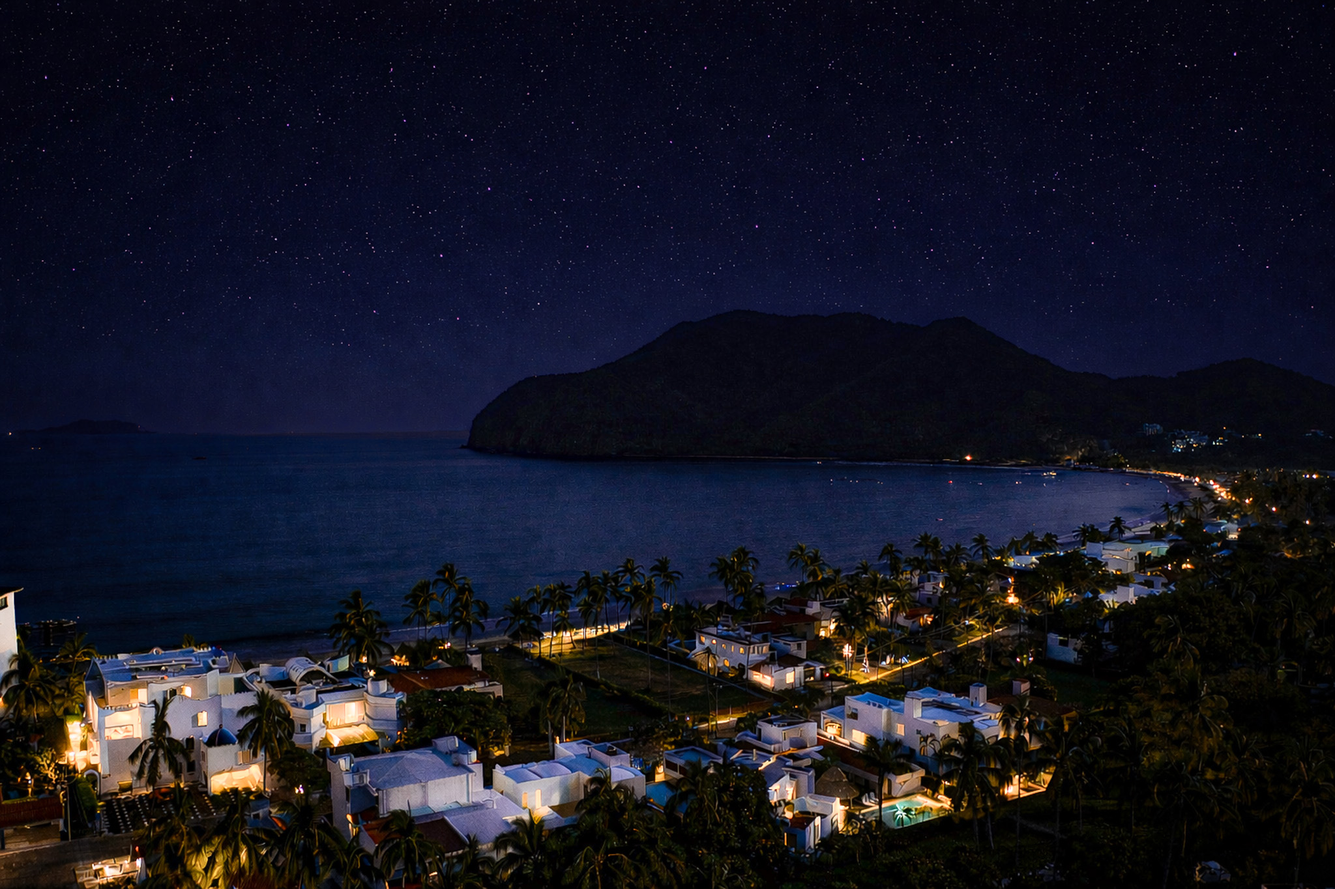
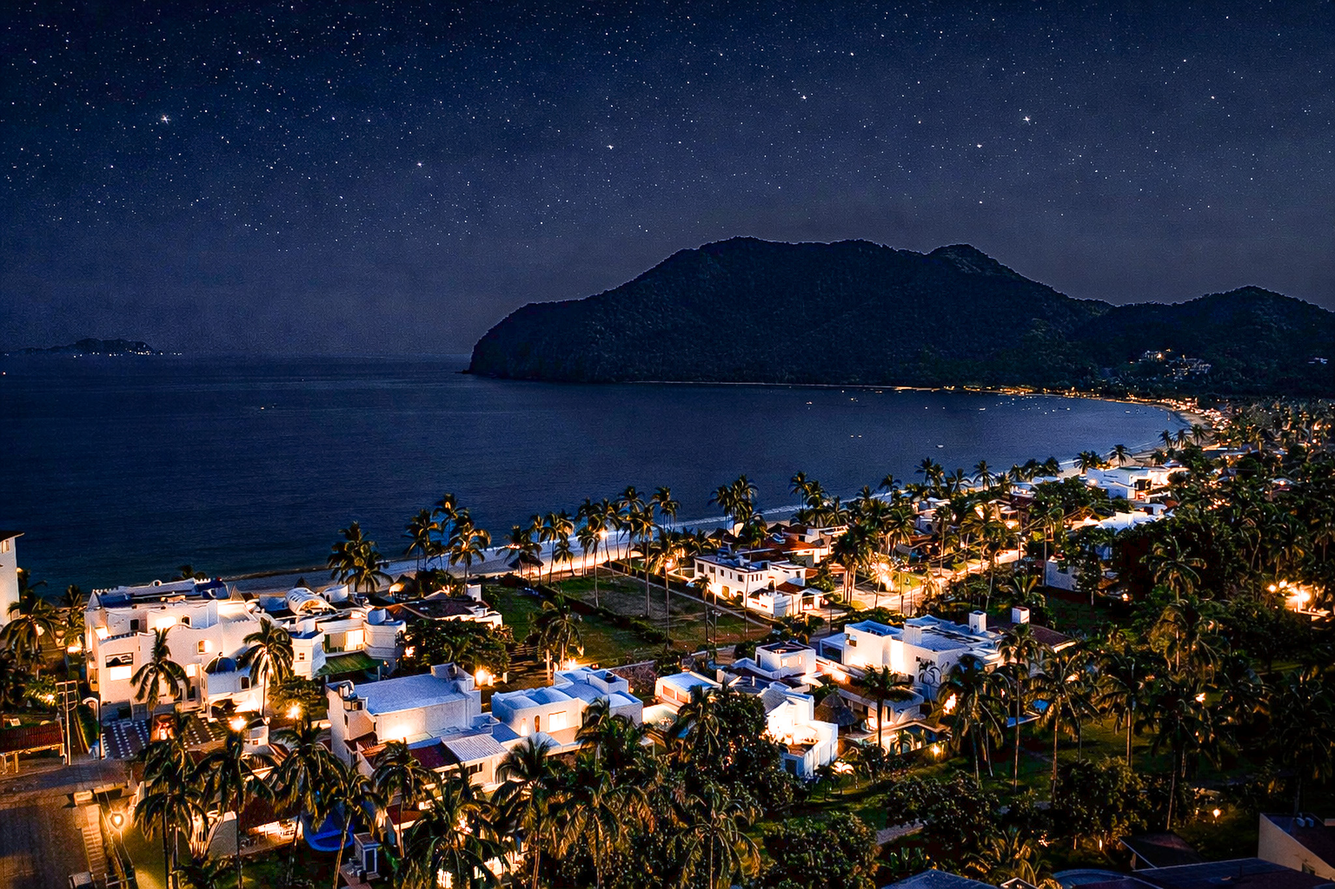
ajusted ultimos de diseño

diff --git a/assets/css/alrededores.css b/assets/css/alrededores.css
@@ -573,6 +573,9 @@ h4,
     background-attachment: scroll !important;
     background-position: center center !important;
   }
+  body.dark-mode .around-hero-container {
+  background-image: url('../img/fondos/alrededores_obscuro.jpg') !important;
+}
 
   .alrededores-page .around-header {
     width: calc(100% - 36px) !important;
@@ -670,6 +673,9 @@ h4,
     background-attachment: scroll !important;
     background-position: center center !important;
   }
+  body.dark-mode .around-hero-container {
+  background-image: url('../img/fondos/alrededores_obscuro.jpg') !important;
+}
 
   .alrededores-page .around-header {
     width: calc(100% - 24px) !important;
@@ -778,6 +784,9 @@ h4,
     background-attachment: scroll !important;
     background-position: center center !important;
   }
+  body.dark-mode .around-hero-container {
+  background-image: url('../img/fondos/alrededores_obscuro.jpg') !important;
+}
 
   .alrededores-page .around-header {
     width: calc(100% - 20px) !important;

diff --git a/assets/css/drk_mode.css b/assets/css/drk_mode.css
@@ -992,9 +992,7 @@ body.dark-mode .alrededores-page {
    HERO
    ========================================================= */
 
-body.dark-mode .around-hero-container {
-  background-image: url('../img/fondos/alrededores_obscuro.jpg') !important;
-}
+
 
 /* texto hero intacto */
 body.dark-mode .around-title,
